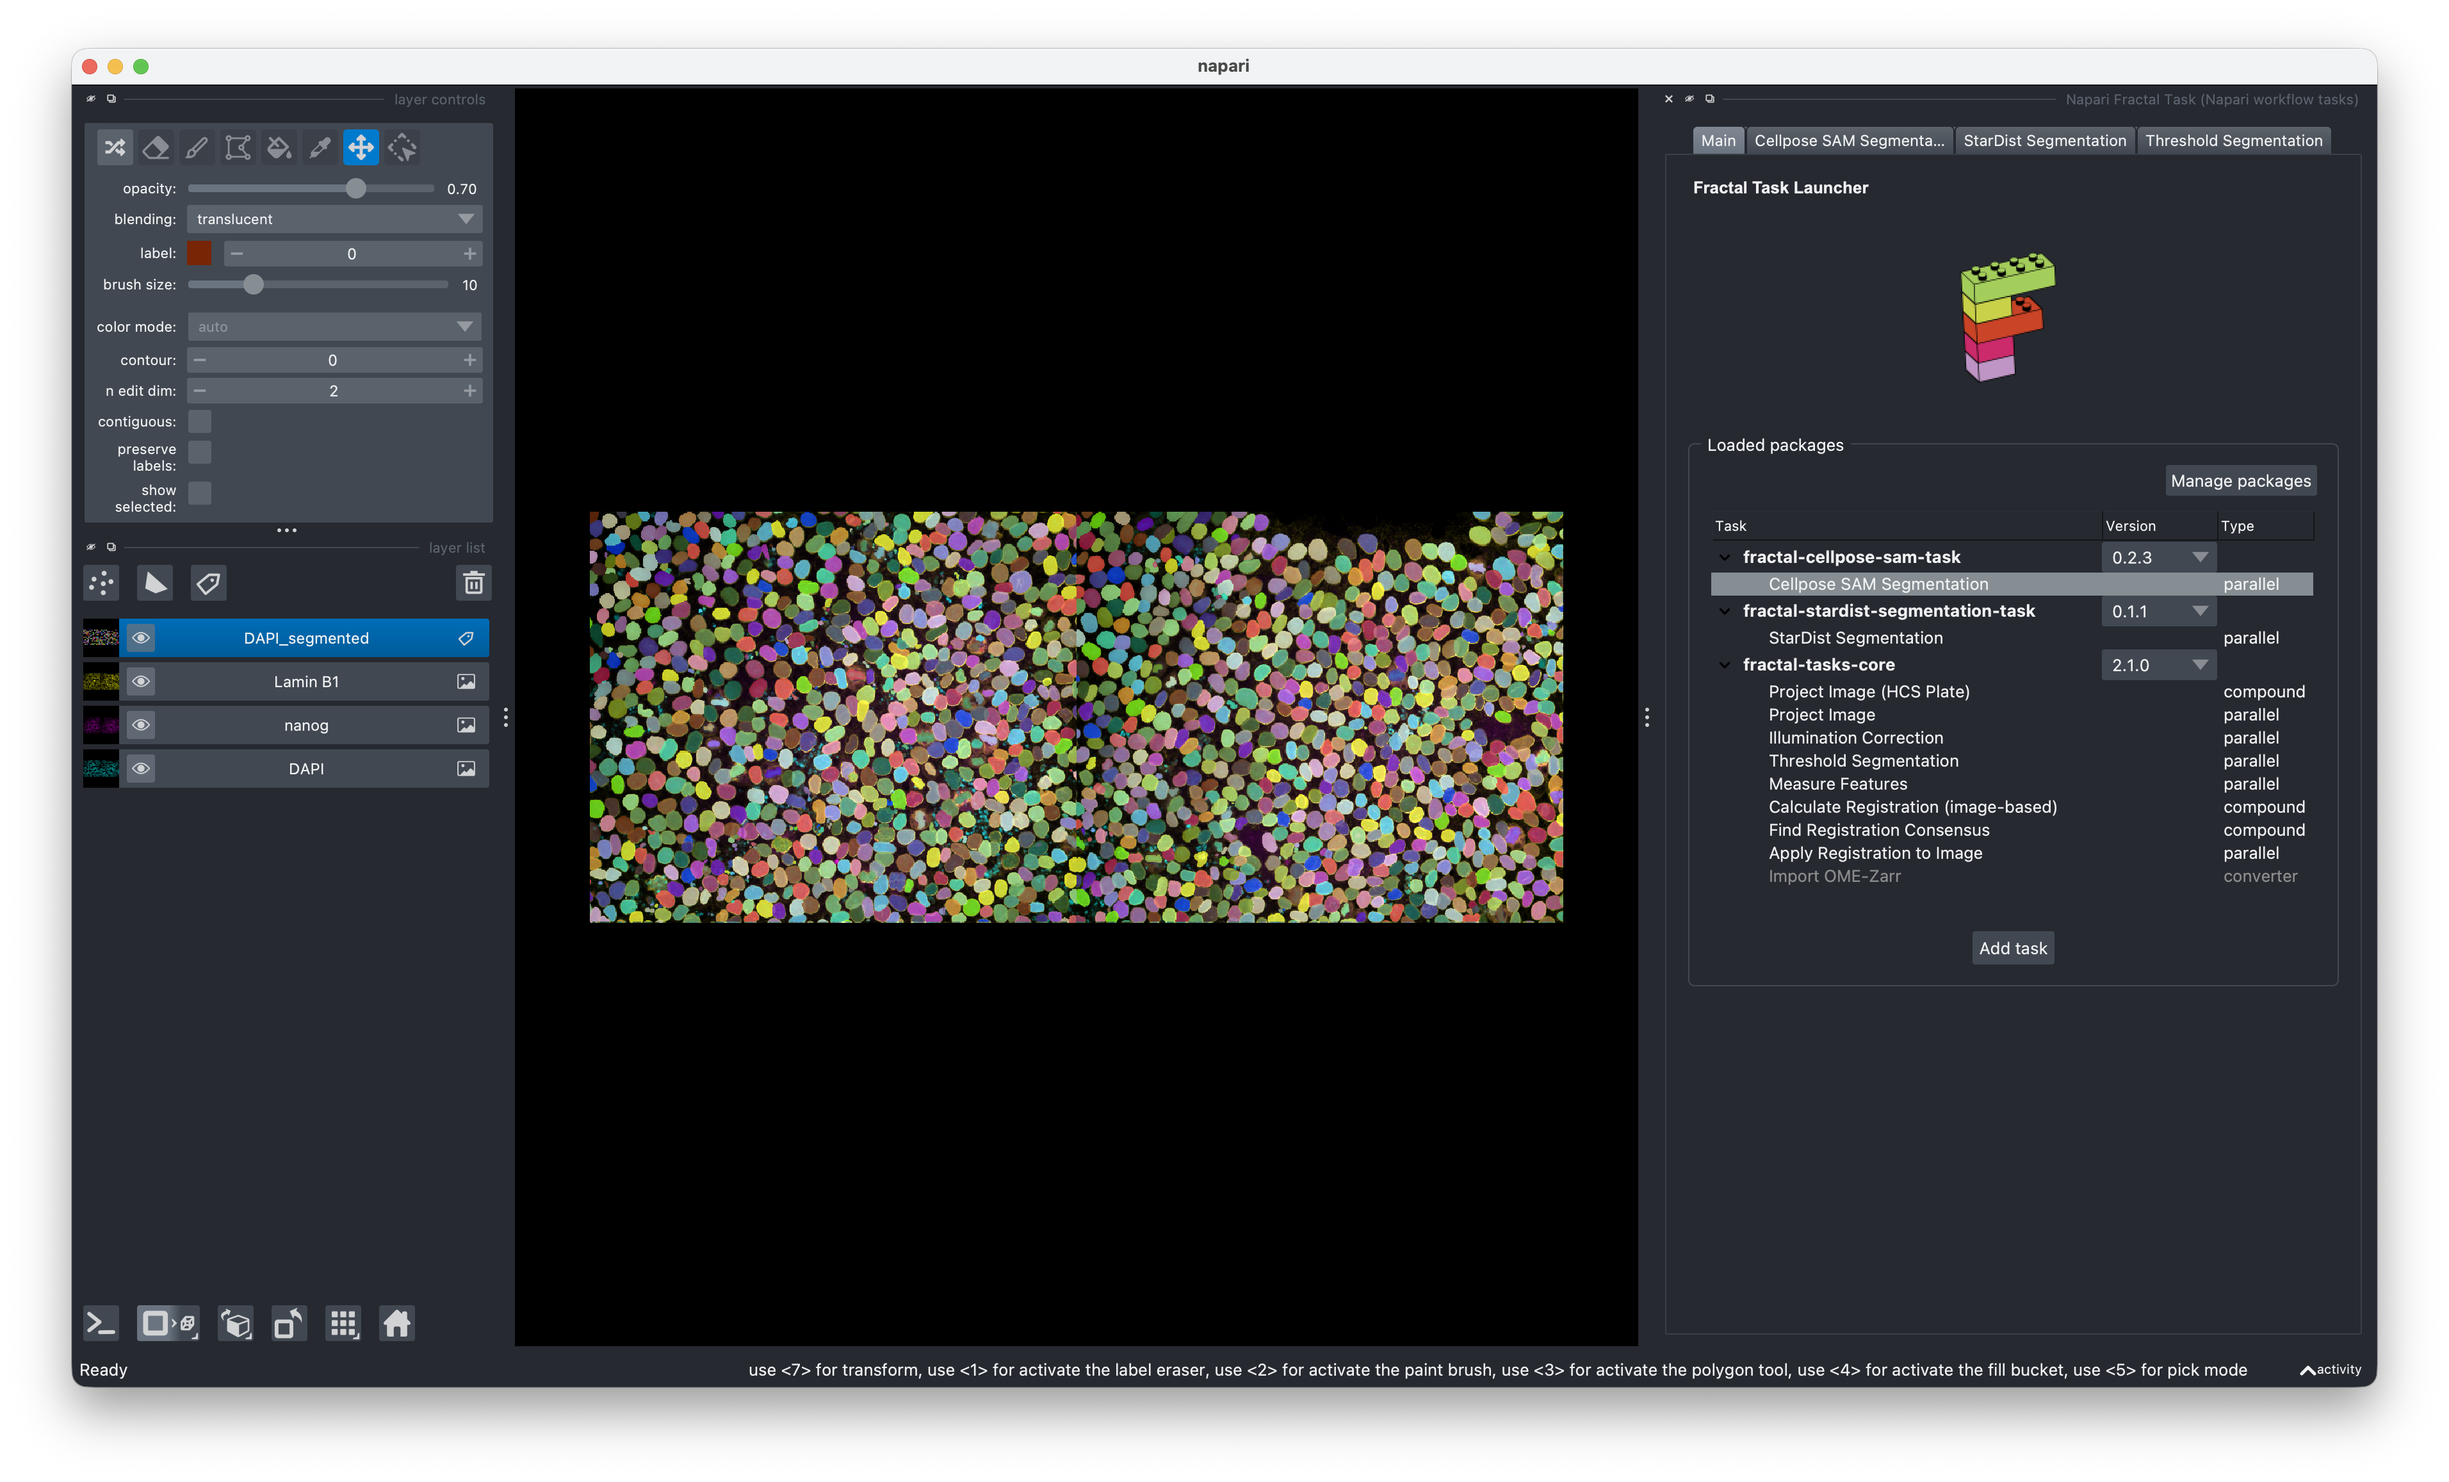
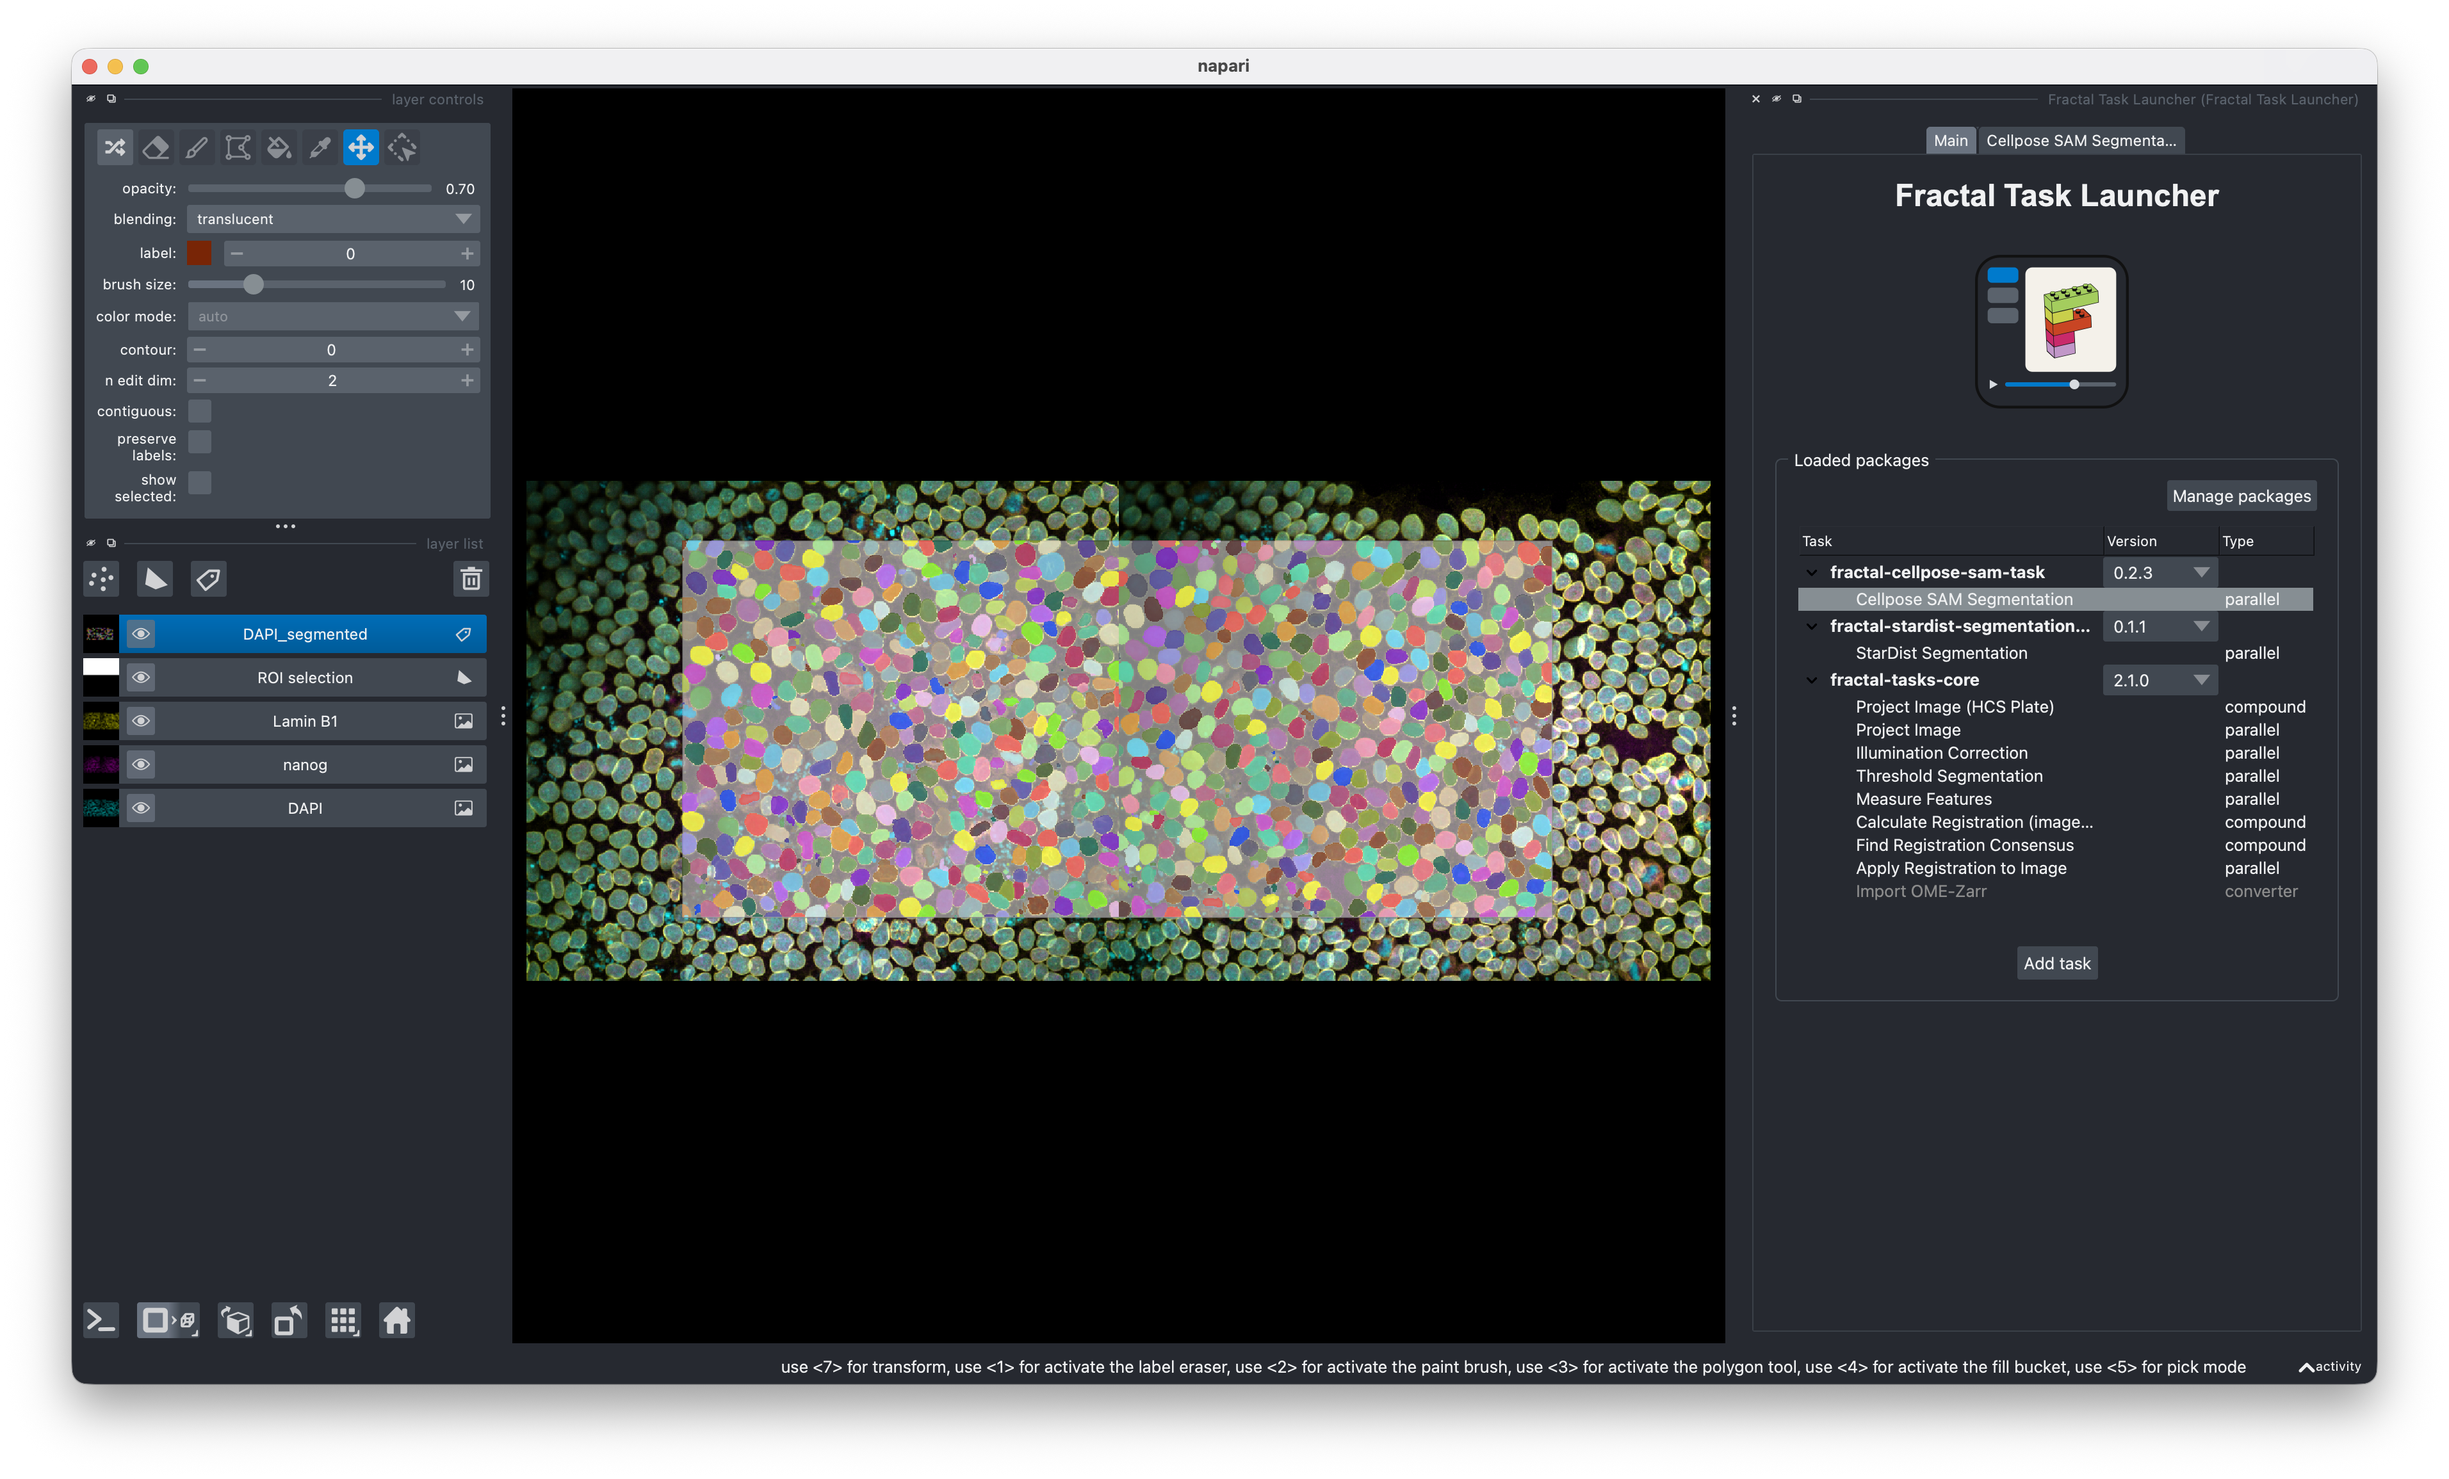
Centre README header, update screenshot, bump version to 0.1.3

Changed region(s): [[0.0311, 0.0623, 0.9647, 0.9351], [0.8091, 0.6234, 0.8713, 0.6857]]

diff --git a/src/napari_fractal_tasks/__init__.py b/src/napari_fractal_tasks/__init__.py
@@ -1,4 +1,4 @@
-__version__ = "0.1.2"
+__version__ = "0.1.3"
 
 from ._widget import TasksQWidget
 

diff --git a/README.md b/README.md
@@ -1,14 +1,18 @@
+<h1 align="center">Fractal Task Launcher</h1>
+
 <p align="center">
   <img src="https://raw.githubusercontent.com/krentzd/napari-fractal-tasks/main/src/napari_fractal_tasks/logo_images/napari-fractal-tasks-logo.svg" width="160" alt="napari-fractal-tasks logo">
 </p>
 
-# Fractal Task Launcher
+<div align="center">
 
 [![PyPI](https://img.shields.io/pypi/v/napari-fractal-tasks.svg?color=green)](https://pypi.org/project/napari-fractal-tasks)
 [![Python Version](https://img.shields.io/pypi/pyversions/napari-fractal-tasks.svg?color=green)](https://pypi.org/project/napari-fractal-tasks)
 [![License MIT](https://img.shields.io/github/license/krentzd/napari-fractal-tasks?color=green)](https://github.com/krentzd/napari-fractal-tasks/raw/main/LICENSE)
 [![tests](https://github.com/krentzd/napari-fractal-tasks/actions/workflows/test_and_deploy.yml/badge.svg?branch=main)](https://github.com/krentzd/napari-fractal-tasks/actions/workflows/test_and_deploy.yml)
 [![napari hub](https://img.shields.io/endpoint?url=https://api.napari-hub.org/shields/napari-fractal-tasks)](https://napari-hub.org/plugins/napari-fractal-tasks)
+
+</div>
 
 A [napari](https://napari.org/stable/index.html) plugin to install and run [Fractal](https://fractal-analytics-platform.github.io/) tasks locally on [OME-Zarr](https://ngff.openmicroscopy.org/) images. Tasks can either be installed from the [Fractal task catalog]( https://fractal-analytics-platform.github.io/fractal_tasks/) or from tarball files (`.tar.gz`). 
 
